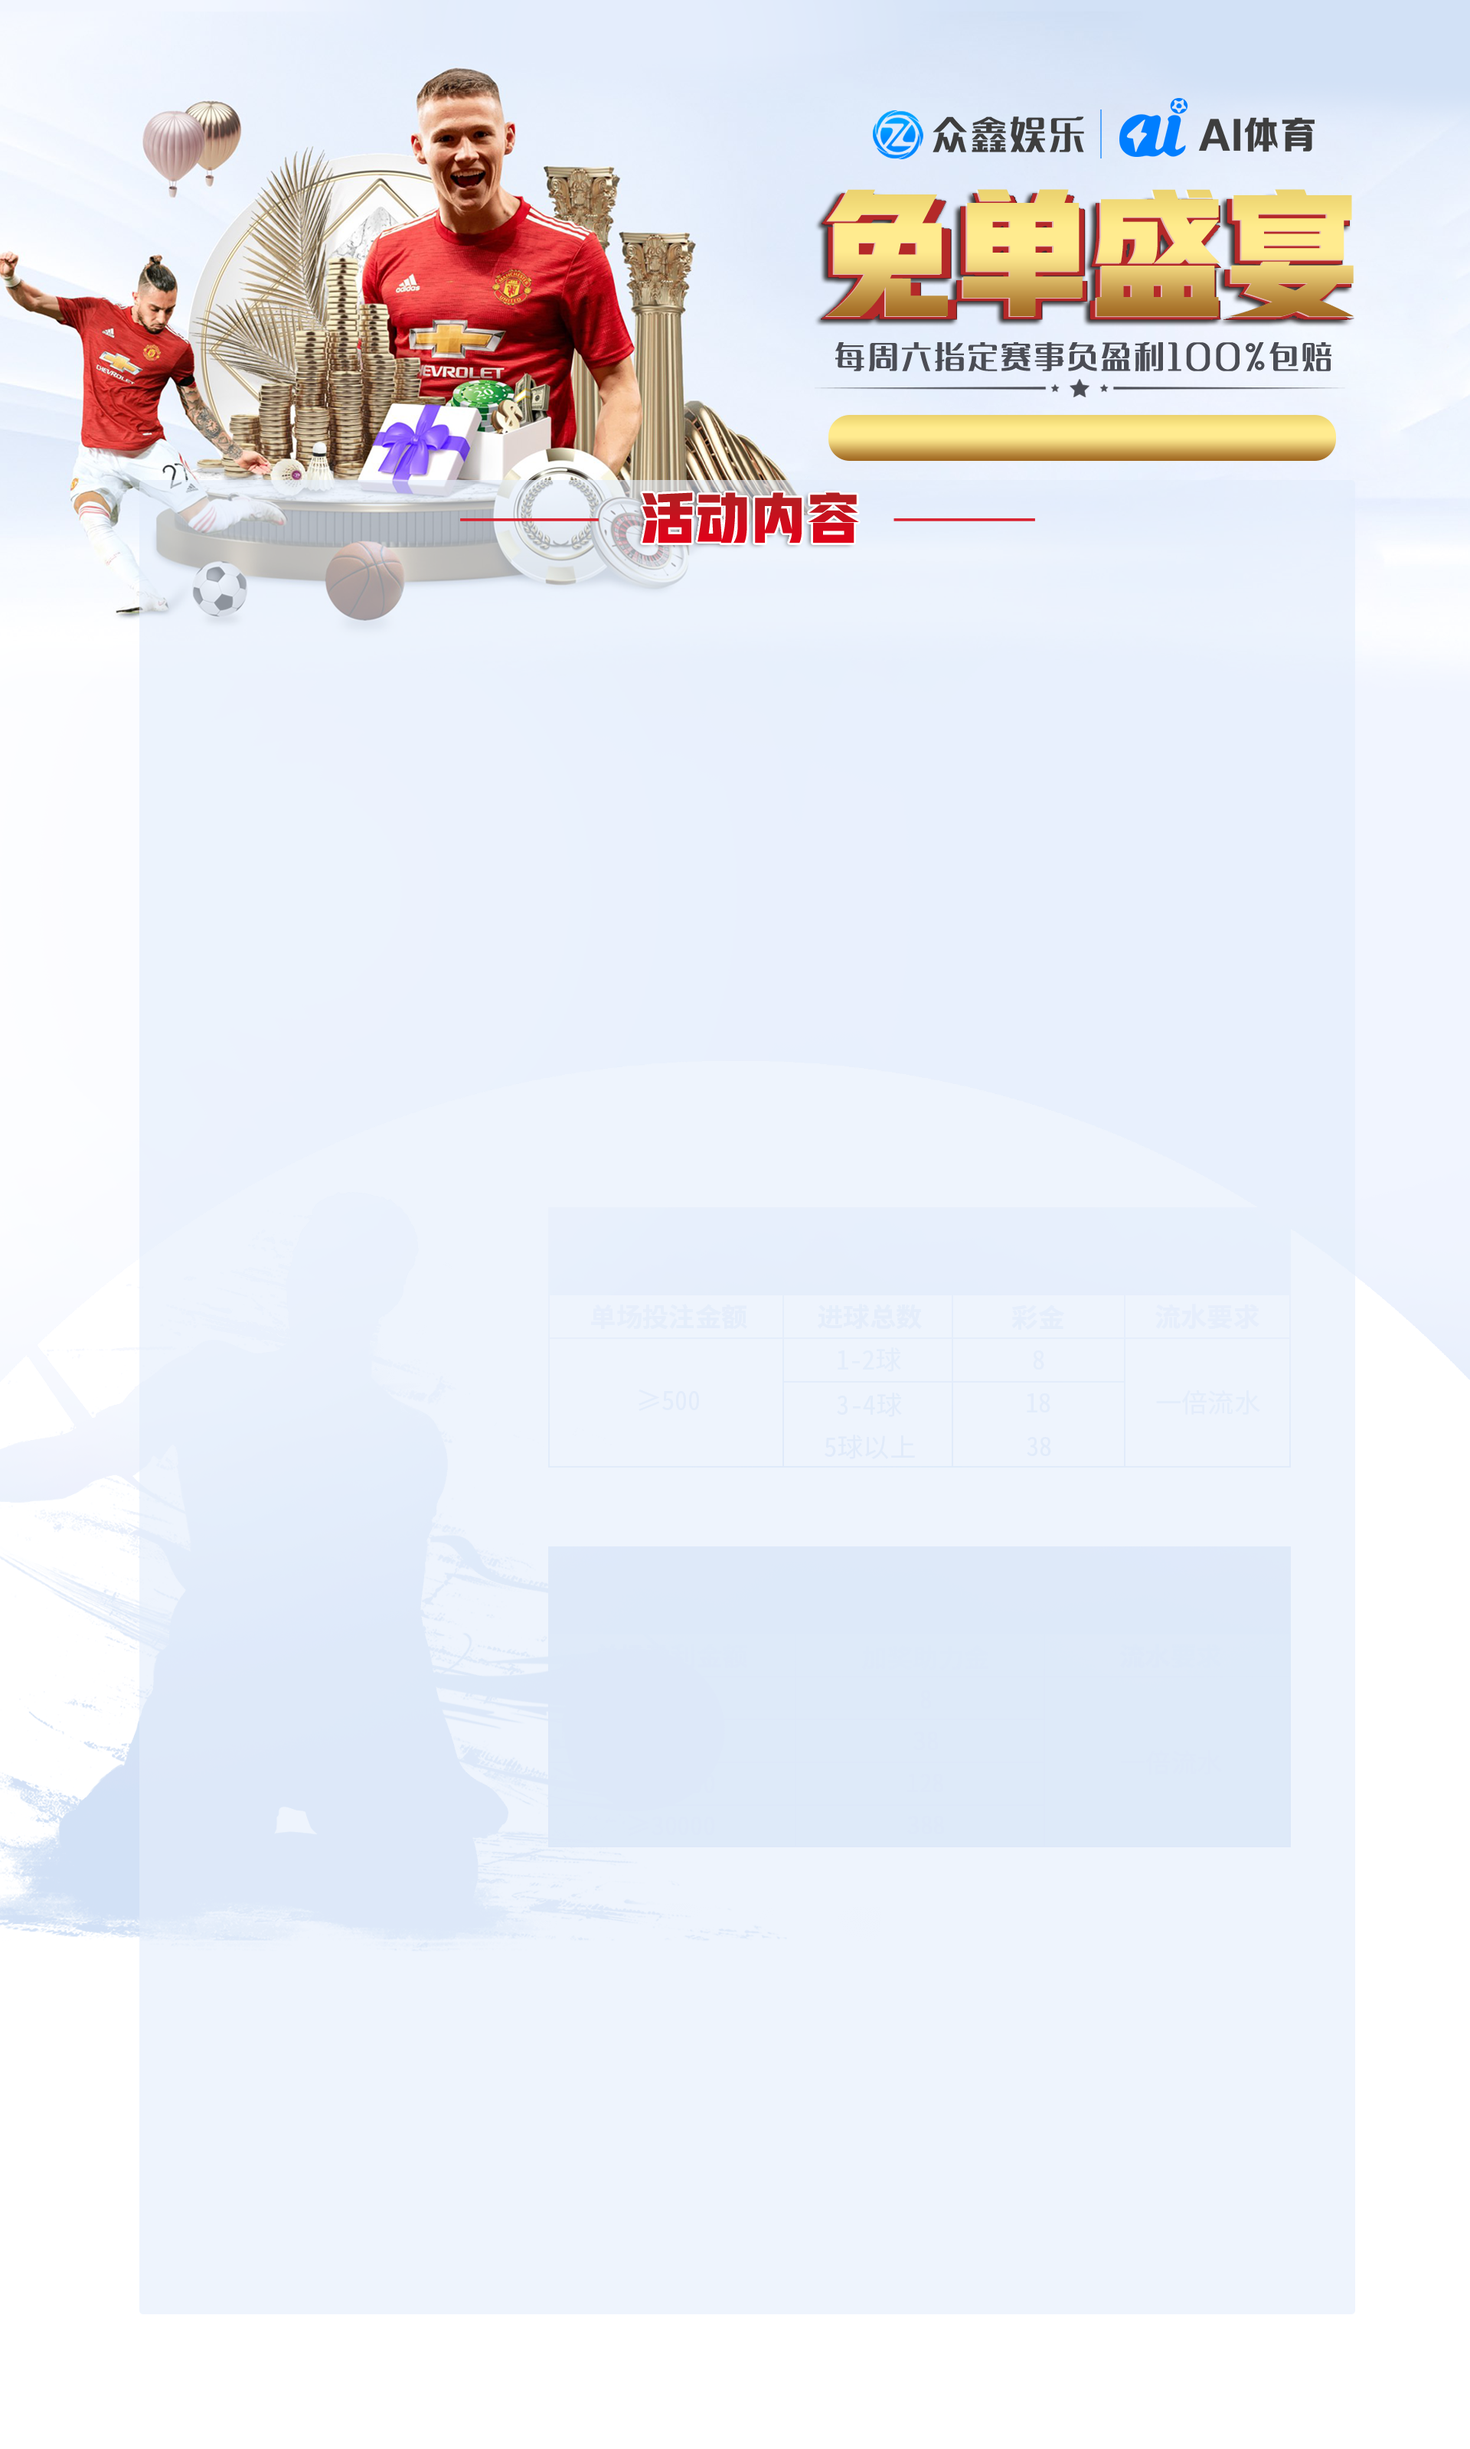
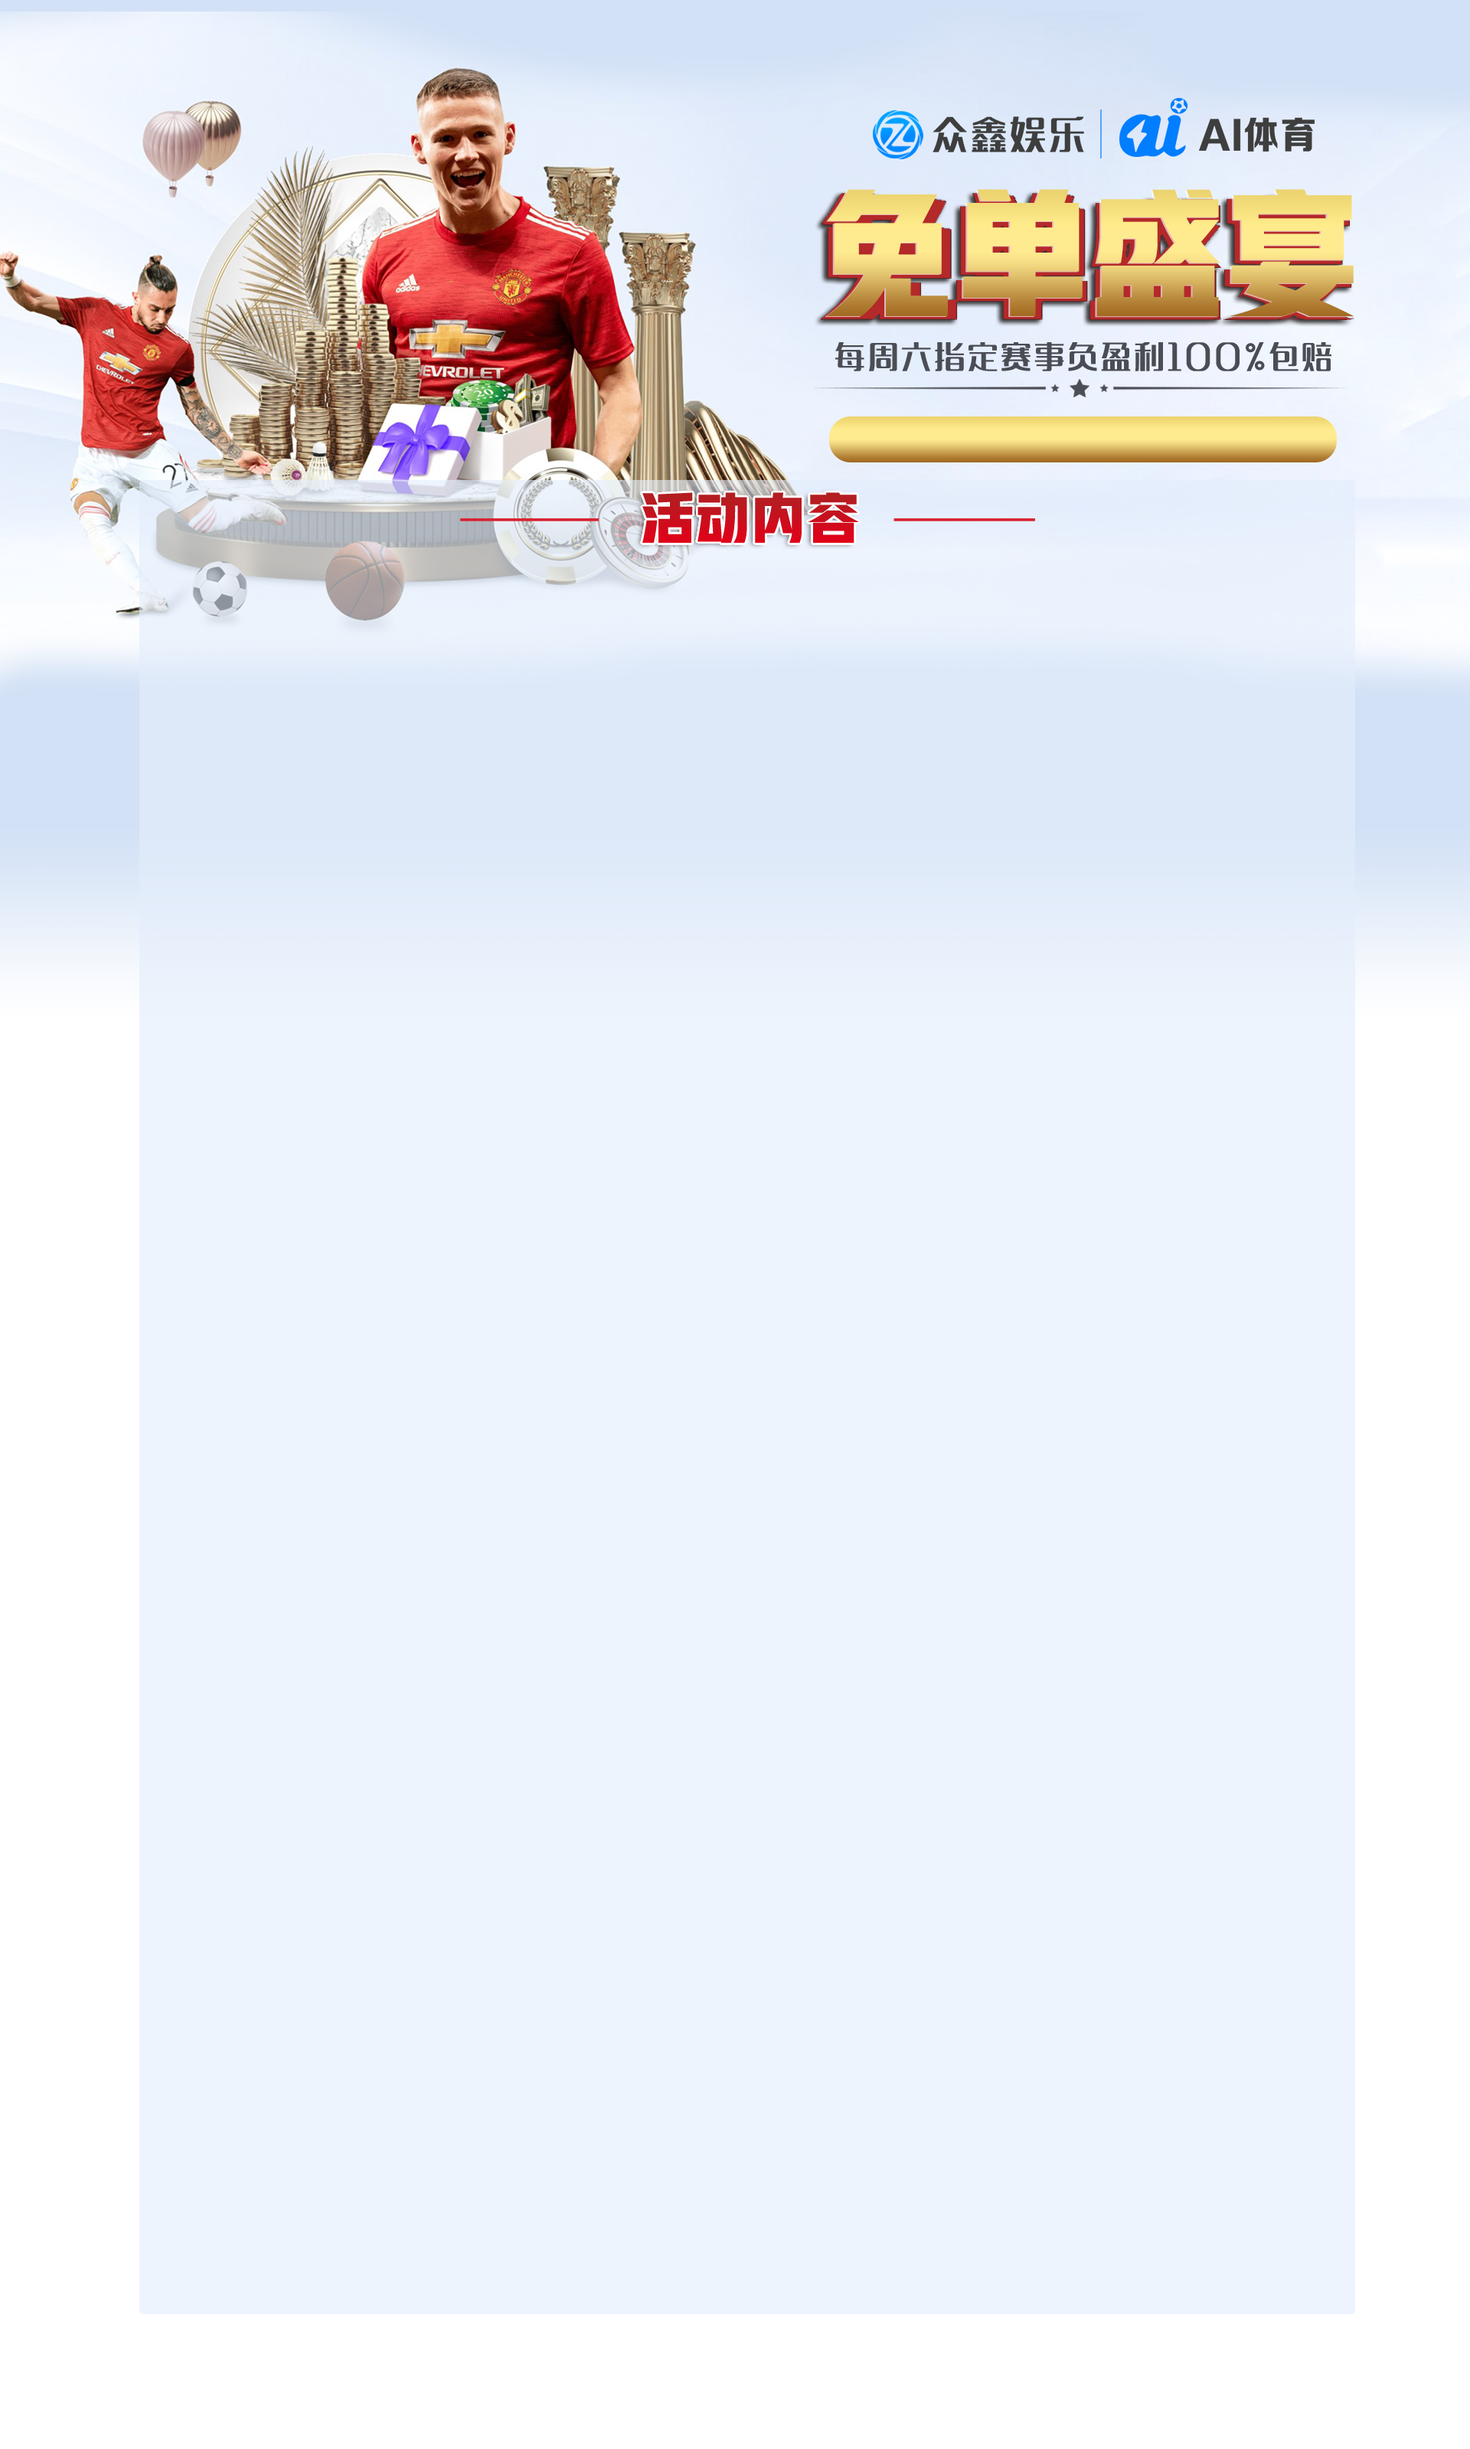
修正活動

diff --git a/src/components/Activity/EuroCup2020/EuroCup2020.vue b/src/components/Activity/EuroCup2020/EuroCup2020.vue
@@ -7,7 +7,7 @@
         class="banner-img"
       />
       <!--表格-->
-      <div class="container" style="margin-top: -32%;">
+      <div class="container" >
         <div class="active_date"><h3>活动时间：2021年12月18日起</h3></div>
         <div class="active_content_title"><h3>【仅限AI体育平台】 每周六指定赛事负盈利100%包赔</h3></div>
         <img
@@ -206,7 +206,7 @@ export default {
 .active_date {
   position: absolute;
   left: 56.5%;
-  top: 20.6%;
+  top: 16.8%;
   width: 34.2%;
 }
 .active_date > h3 {
@@ -216,7 +216,7 @@ export default {
 }
 .active_content_title {
   position: absolute;
-  top: 28%;
+  top: 24%;
   left: 50%;
   transform: translate(-50%, -50%);
 }
@@ -225,7 +225,7 @@ export default {
 }
 .section1 {
   position: absolute;
-  bottom: -10%;
+  top: 42%;
   left: 50%;
   -webkit-transform: translate(-50%, -50%);
   transform: translate(-50%, 0);
@@ -281,7 +281,7 @@ export default {
 .section1 > .r_content .c_area_7 > ul > li{
     width: 100%;
     text-align: left;
-    font-size: 1.1rem;
+    font-size: 1.3rem;
 }
 .section1 > .r_content > div.c_area_7{
     position: relative;

diff --git a/src/assets/images/activity/EuroCup/style/default.css b/src/assets/images/activity/EuroCup/style/default.css
@@ -103,14 +103,14 @@ button.btn.btn-play:active {
 }
 .table-top {
     position: absolute;
-    top: 30%;
+    top: 26%;
     width: 60%;
     max-width: 1155px;
 }
 
 table {
     max-width: 1155px !important;    
-    top: 34%;
+    top: 29.5%;
     position: absolute;
     width: 60%
 }
@@ -141,7 +141,7 @@ td {
 
     .btn-group {
         position: absolute;
-        top:31%;
+        top:27%;
         color: black;
         font-size: 16px;
         padding: 5px 30px;
